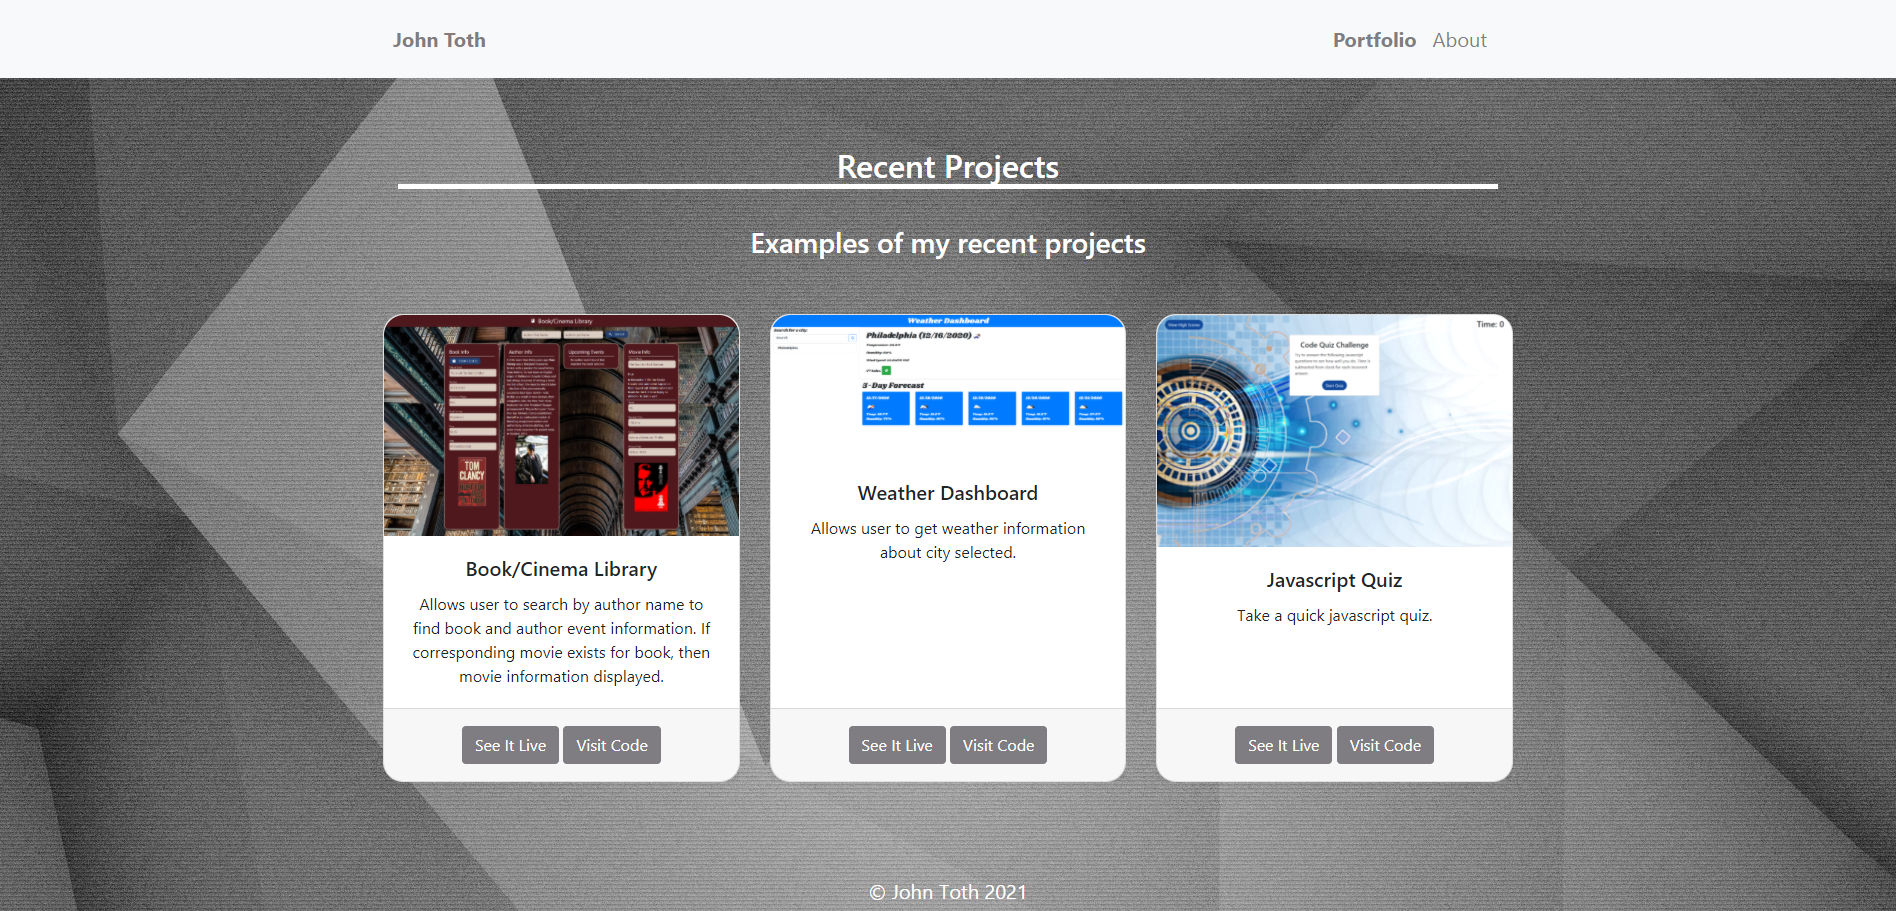
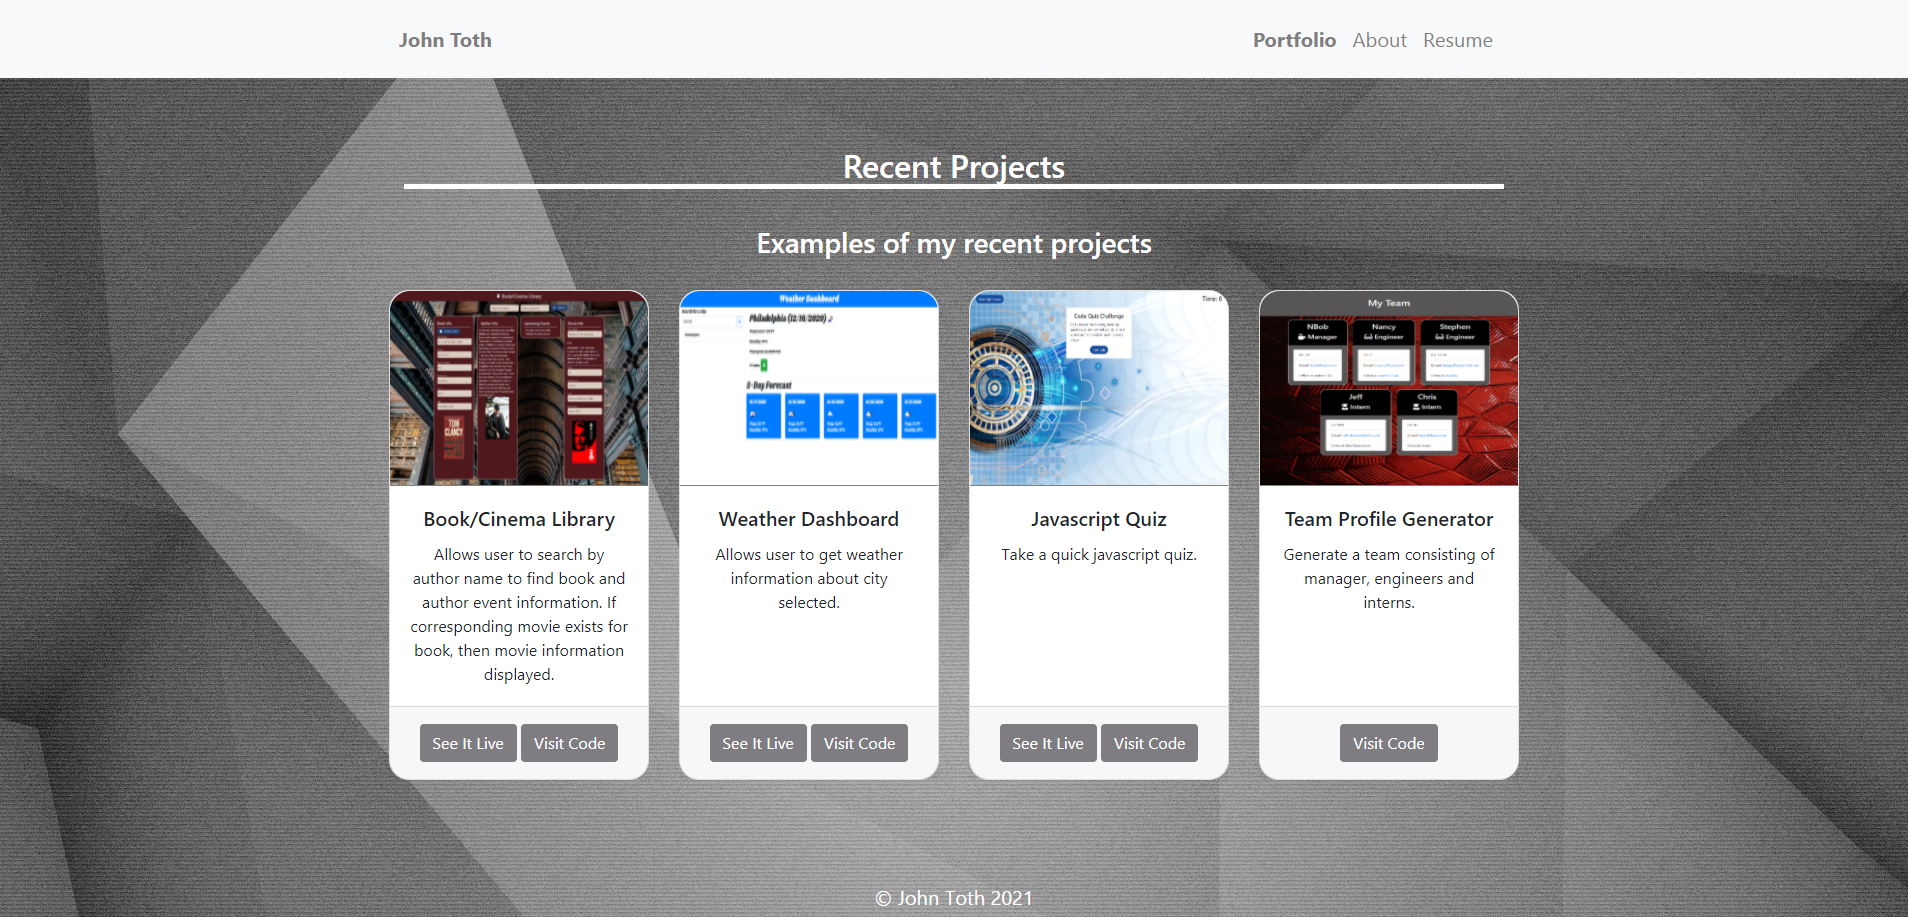
added teamProfileGenerator project to portfolio

diff --git a/portfolio.html b/portfolio.html
@@ -75,12 +75,14 @@
                             <br>
                             <h3 class="text-center text-white">Examples of my recent projects</h3>
                             <br>
-                            <br>
                             <section class="row">
                                 <div class="card-deck">
                                     <div class="card">
-                                        <img src="./assets/images/MovieInfo.png" class="card-img-top" alt="...">
-                                        <div class="card-body text-center">
+                                        <div class="embed-responsive embed-responsive-4by3">
+                                            <img src="./assets/images/MovieInfo.png"
+                                                class="card-img-top embed-responsive-item" alt="...">
+                                        </div>
+                                        <div class="card-body text-center cardBodyBorder">
                                             <h5 class="card-title">Book/Cinema Library</h5>
                                             <p class="card-text">Allows user to search by author name to find book and
                                                 author event information. If corresponding movie exists for book, then
@@ -94,8 +96,11 @@
                                         </div>
                                     </div>
                                     <div class="card">
-                                        <img src="./assets/images/UserSearchCity.png" class="card-img-top" alt="...">
-                                        <div class="card-body text-center">
+                                        <div class="embed-responsive embed-responsive-4by3">
+                                            <img src="./assets/images/UserSearchCity.png"
+                                                class="card-img-top embed-responsive-item" alt="...">
+                                        </div>
+                                        <div class="card-body text-center cardBodyBorder">
                                             <h5 class="card-title">Weather Dashboard</h5>
                                             <p class="card-text">Allows user to get weather information about city
                                                 selected.</p>
@@ -108,9 +113,11 @@
                                         </div>
                                     </div>
                                     <div class="card">
-                                        <img src="./assets/images/StartScreenJavascriptQuiz.png" class="card-img-top"
-                                            alt="...">
-                                        <div class="card-body text-center">
+                                        <div class="embed-responsive embed-responsive-4by3">
+                                            <img src="./assets/images/StartScreenJavascriptQuiz.png"
+                                                class="card-img-top embed-responsive-item" alt="...">
+                                        </div>
+                                        <div class="card-body text-center cardBodyBorder">
                                             <h5 class="card-title">Javascript Quiz</h5>
                                             <p class="card-text">Take a quick javascript quiz.</p>
                                         </div>
@@ -118,6 +125,23 @@
                                             <a href="https://jtoth7824.github.io/javascriptCodeQuiz" target="_blank"
                                                 class="btn myButton buttonMargin">See It Live</a>
                                             <a href="https://github.com/jtoth7824/javascriptCodeQuiz/" target="_blank"
+                                                class="btn myButton buttonMargin">Visit Code</a>
+                                        </div>
+                                    </div>
+                                    <div class="card">
+                                        <div class="embed-responsive embed-responsive-4by3">
+                                            <img src="./assets/images/TPG2.png"
+                                                class="card-img-top embed-responsive-item" alt="...">
+                                        </div>
+                                        <div class="card-body text-center cardBodyBorder">
+                                            <h5 class="card-title">Team Profile Generator</h5>
+                                            <p class="card-text">Generate a team consisting of manager, engineers and
+                                                interns.</p>
+                                        </div>
+                                        <div class="card-footer text-center">
+                                            <!-- <a href="https://jtoth7824.github.io/teamProfileGenerator" target="_blank" -->
+                                            <!-- class="btn myButton buttonMargin">See It Live</a> -->
+                                            <a href="https://github.com/jtoth7824/teamProfileGenerator/" target="_blank"
                                                 class="btn myButton buttonMargin">Visit Code</a>
                                         </div>
                                     </div>

diff --git a/assets/css/style.css b/assets/css/style.css
@@ -98,13 +98,6 @@ body {
     max-height: 260px;
 }
 
-/* styling for pictures on Portfolio page to make then the whole size of card */
-.porfolioPic {
-    max-width: 100%;
-    height: auto;
-    max-height: 260px;
-}
-
 /* styling for the footer */
 .myFooter {
         padding: 5px 0;
@@ -114,4 +107,10 @@ body {
 .buttonMargin {
     margin-top: 5px;
     margin-bottom: 5px;
+}
+
+.cardBodyBorder {
+    border-top-width: 1px !important;
+    border-top-style: solid !important;
+    border-top-color: gray;
 }
